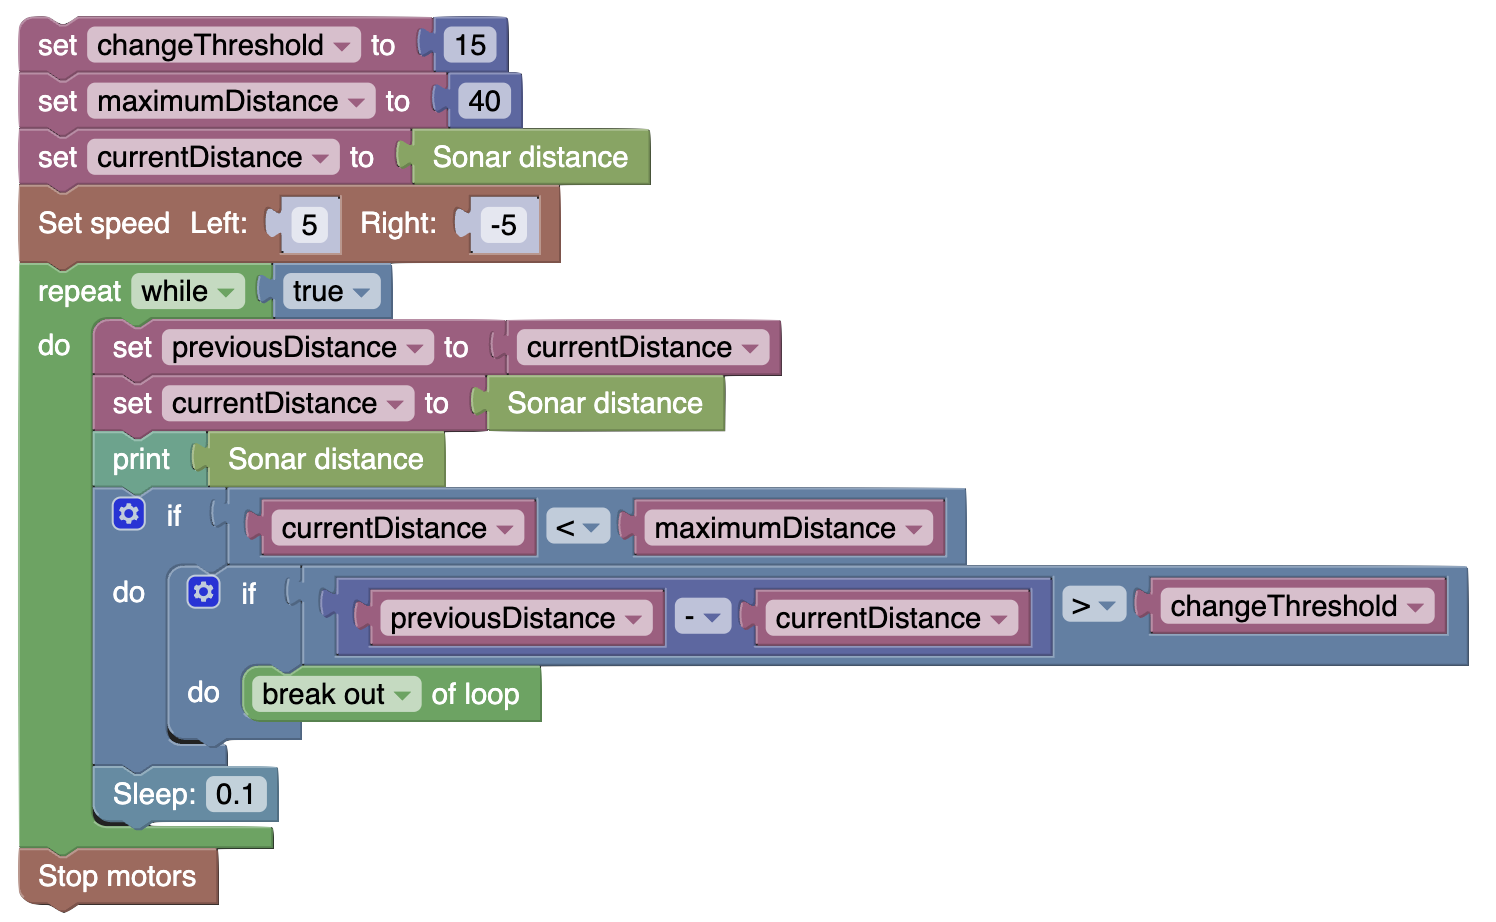
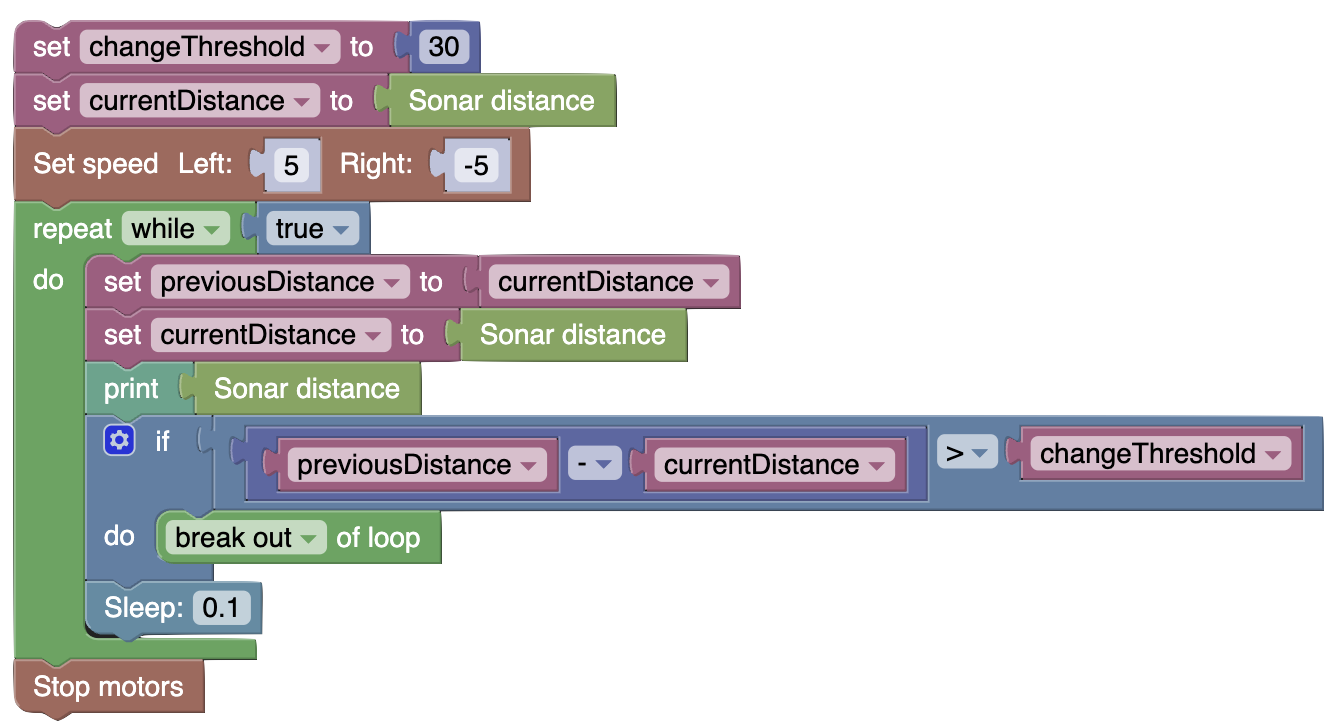
changes

diff --git a/course/measuring_distance/locate_object.rst b/course/measuring_distance/locate_object.rst
@@ -22,16 +22,11 @@ How can we find the change in distance readings over each iteration of the loop?
 reading in a variable, and compare it to the current distance reading. If this change is greater than some threshold,
 then we can assume that an object has been detected.
 
-But, it's possible that there are some objects super far away that still result in a large change in distance readings.
-To avoid this, we can set a maximum distance threshold, and only consider an object to be detected if it's within some
-maximum distance.
-
 To code this, we can start by setting the drive motor speeds to spin in opposite directions to start spinning
-the robot in place. Then, we can utilize a while loop to keep spinning while the distance reading is greater than
-some threshold, meaning that the robot has not yet found an object. Once the change distance reading is greater than
+the robot in place. Then, once the change in distance reading is greater than
 the threshold, the robot can stop spinning and head towards the object.
 
-In the following example code, we use a change threshold of 15cm, and a maximum distance threshold of 40cm.
+In the following example code, we use a change threshold of 30 cm.
 
 .. tab-set::
 
@@ -39,8 +34,7 @@ In the following example code, we use a change threshold of 15cm, and a maximum 
 
         .. code-block:: python
 
-            changeThreshold = 15 # distance change in cm needed to trigger detection
-            maximumDistance = 40 # maximum distance in cm to consider an object detected
+            changeThreshold = 30 # distance change in cm needed to trigger detection
 
             # store initial value for current distance
             currentDistance = rangefinder.distance()
@@ -54,11 +48,9 @@ In the following example code, we use a change threshold of 15cm, and a maximum 
                 previousDistance = currentDistance
                 currentDistance = rangefinder.distance()
 
-                if currentDistance < maximumDistance: # only consider an object detected if it's within the maximum distance
-
-                    # if sudden decrease in distance, then an object has been detected
-                    if previousDistance - currentDistance > changeThreshold:
-                        break # break out of the while loop
+                # if sudden decrease in distance, then an object has been detected
+                if previousDistance - currentDistance > changeThreshold:
+                    break # break out of the while loop
 
                 time.sleep(0.1)
 
@@ -94,7 +86,7 @@ If :code:`increase` is :code:`True`, then we want to detect an increase in dista
 
 If :code:`increase` is :code:`False`, then we want to detect a decrease in distance, which is when :code:`previousDistance - currentDistance > changeThreshold`.
 
-For more flexibility, let's also have a parameter for the maximum distance, and a parameter for the change threshold.
+For more flexibility, let's add a parameter for the change threshold.
 
 Here's the function definition:
 
@@ -104,7 +96,7 @@ Here's the function definition:
 
         .. code-block:: python
 
-            def turnUntilEdge(isIncrease, maximumDistance, changeThreshold):
+            def turnUntilEdge(isIncrease, changeThreshold):
 
                 # store initial value for current distance
                 currentDistance = rangefinder.distance()
@@ -118,14 +110,12 @@ Here's the function definition:
                     previousDistance = currentDistance
                     currentDistance = rangefinder.distance()
 
-                    if currentDistance < maximumDistance: # only consider an object detected if it's within the maximum distance
-
-                        if isIncrease and currentDistance - previousDistance > changeThreshold:
-                            # if sudden increase in distance, then an object has been detected
-                            break
-                        elif not isIncrease and previousDistance - currentDistance > changeThreshold:
-                            # if sudden decrease in distance, then an object has been detected
-                            break
+                    if isIncrease and currentDistance - previousDistance > changeThreshold:
+                        # if sudden increase in distance, then an object has been detected
+                        break
+                    elif not isIncrease and previousDistance - currentDistance > changeThreshold:
+                        # if sudden decrease in distance, then an object has been detected
+                        break
 
                     time.sleep(0.1)
 
@@ -151,17 +141,44 @@ Here's the equivalent function call to the turn and detection code in the previo
     .. tab-item:: Blockly
 
         .. image:: media/detectioncall.png
-            :width: 900
+            :width: 200
 
-Let's walk through the code step by step.
+Now, it's time to write the full program to detect both edges and turn to the center.
 
-First, the robot should spin in place until it detects the first edge, then stop. The code should be similar as before.
+Implementing Dual Edge Detection
+~~~~~~~~~~~~~~~~~~~~~~~~~~~~~~~~
 
-[code]
+Let's walk through each step of the process in code.
+
+First, the robot should spin in place until it detects the first edge, then stop. This is simply the function call we saw earlier.
+
+.. tab-set::
+
+    .. tab-item:: Python
+
+        .. code-block:: python
+
+            turnUntilEdge(False, 40, 15)
+
+    .. tab-item:: Blockly
+
+        .. image:: media/detectioncall.png
+            :width: 200
 
 Next, we want to record the robot's heading for this first edge, and store it to :code:`firstAngle`.
 
-[code]
+.. tab-set::
+
+    .. tab-item:: Python
+
+        .. code-block:: python
+
+            turnUntilEdge(False, 40, 15)
+
+    .. tab-item:: Blockly
+
+        .. image:: media/detectioncall.png
+            :width: 200
 
 Then, the robot should spin in place again until it detects the second edge, then stop. The whole time while the robot is spinning
 from the first to second edge, it should be detecting the object in close proximity, so the robot should know its hit the second
